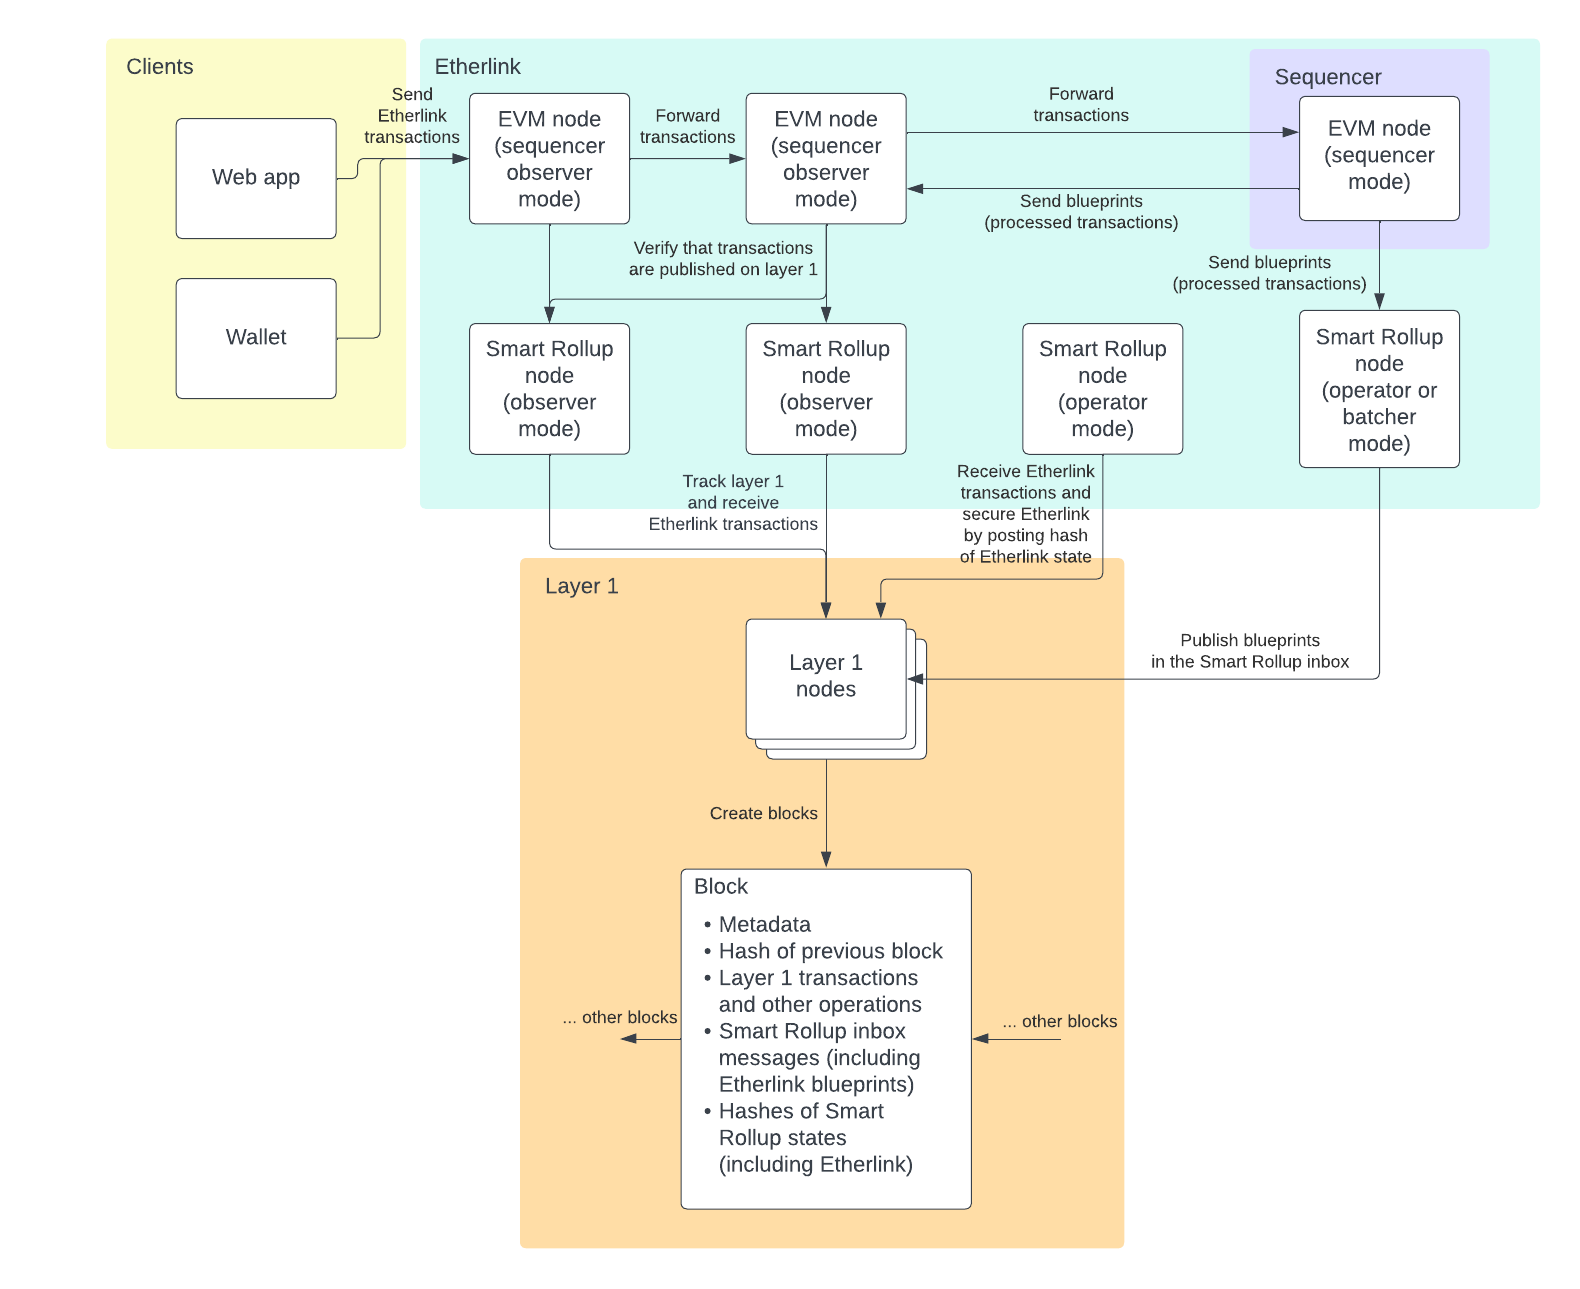
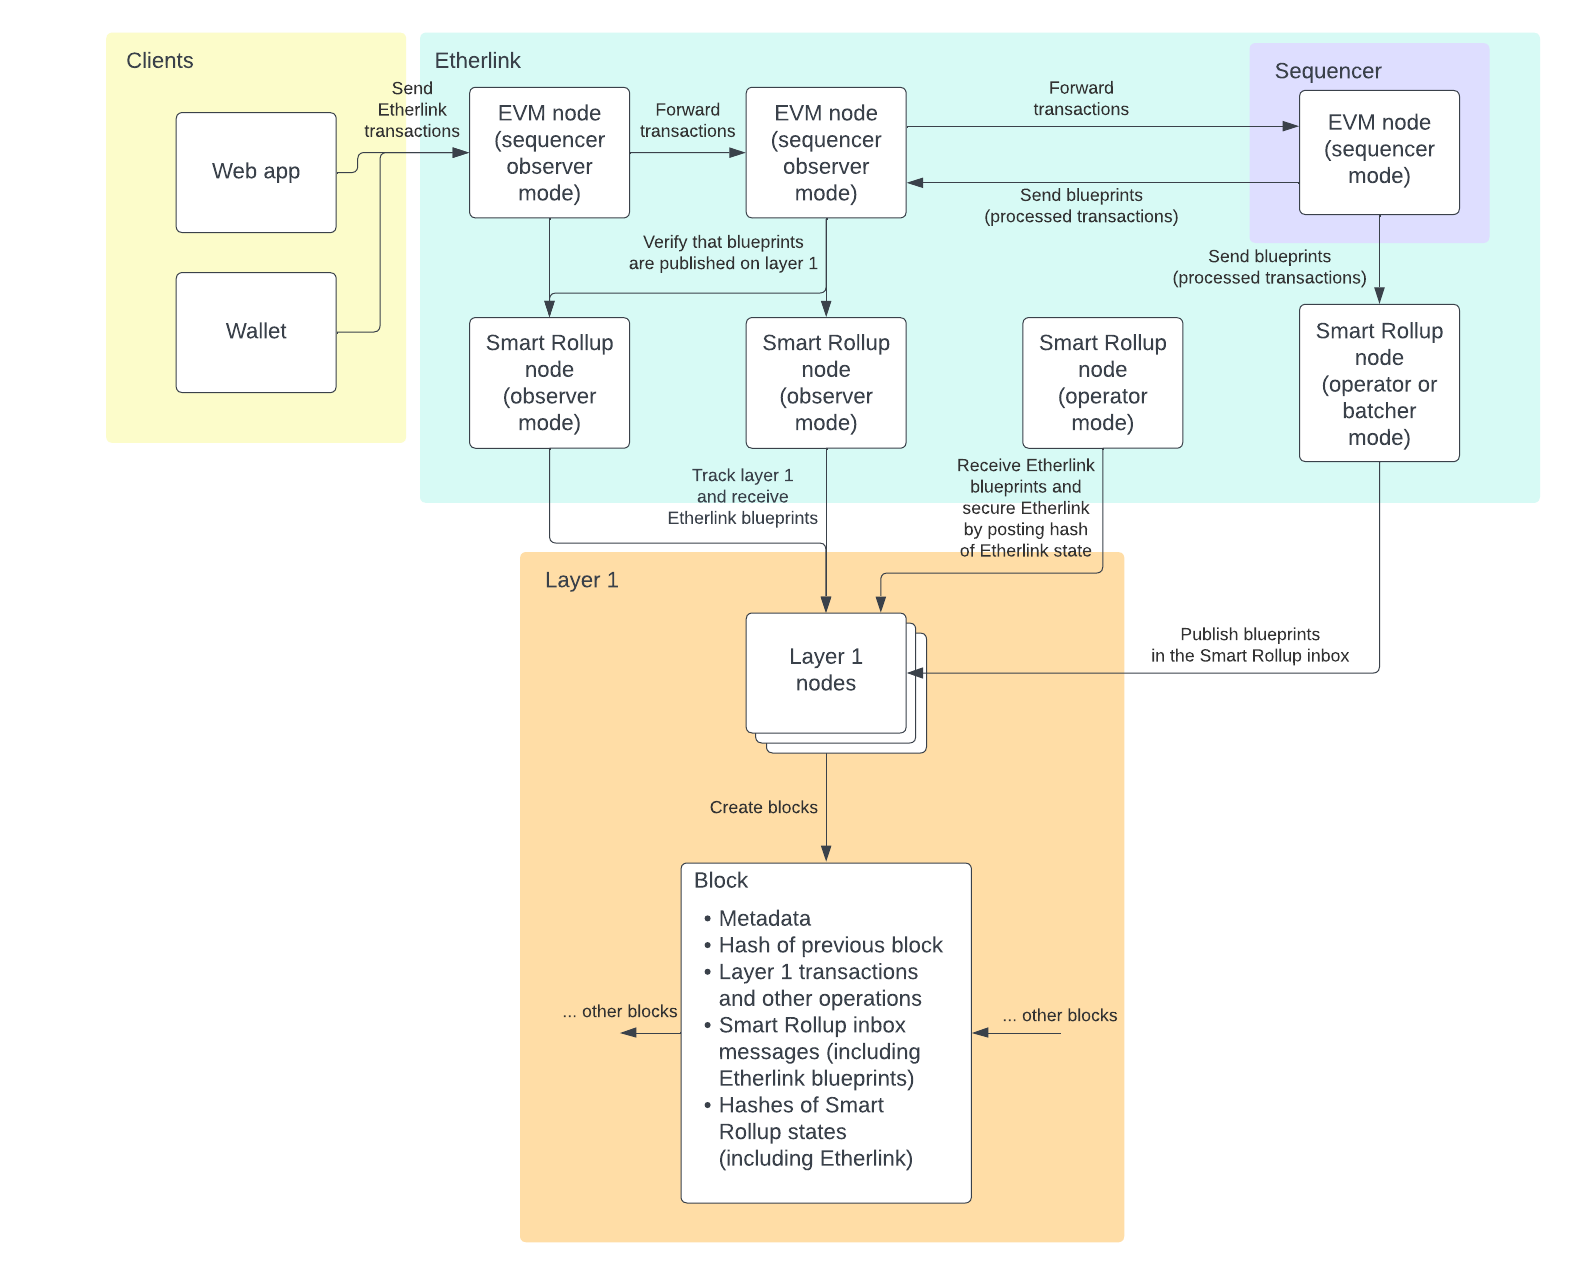
This is really about blueprints

diff --git a/docs/network/architecture.md b/docs/network/architecture.md
@@ -60,7 +60,7 @@ The overall lifecycle of a typical operation is as follows:
 1. The sequencer publishes the blueprint to the EVM nodes, which update their states based on the transactions in the blueprint.
 1. The sequencer publishes the blueprint to the Smart Rollup inbox on layer 1 via a Smart Rollup node running in operator or batcher mode.
 1. The Smart Rollup nodes tracking the state of Etherlink fetch the blueprint from the Smart Rollup inbox, read its transactions, and update their states.
-1. The EVM nodes check the state of the Smart Rollup nodes to verify that transactions have successfully and faithfully been finalized on layer 1.
+1. The EVM nodes check the state of the Smart Rollup nodes to verify that blueprints have successfully and faithfully been finalized on layer 1.
 1. The Smart Rollup nodes running in observer mode post hashes of Etherlink's state to layer 1 as commitments.
 
 This diagram summarizes the transaction process:
